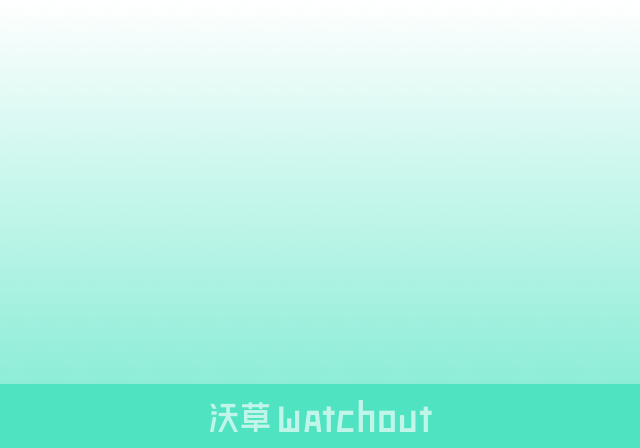
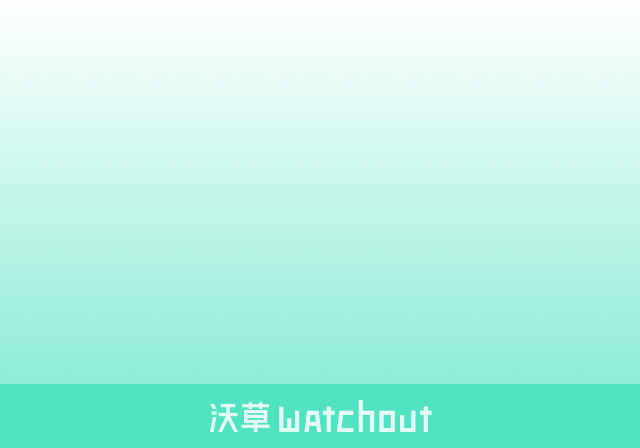
Update footer; use jpg for opening graphics

Changed region(s): [[0.3125, 0.875, 0.6875, 0.9688]]

diff --git a/css/style.css b/css/style.css
@@ -192,11 +192,11 @@ section#cover {
   background-color: rgba(0, 0, 0, 0.65);
   background-size: cover;
   background-position: center center;
-  background-image: url(../asset/opening+background-sq.png); }
+  background-image: url(../asset/opening+background-sq.jpg); }
   @media (min-width: 576px) {
     section#cover {
       padding-bottom: 50%;
-      background-image: url(../asset/opening+background-wide.png); } }
+      background-image: url(../asset/opening+background-wide.jpg); } }
 @media (min-width: 576px) {
   section#now {
     padding-top: 2rem; }
@@ -349,9 +349,9 @@ section#cover {
     opacity: 0.75; }
 
 footer {
-  margin-top: 6rem;
+  margin-top: 8rem;
   padding-bottom: 2rem;
-  background: #3d3d3d; }
+  background: #434343; }
   footer > .land, footer > .social, footer > .other {
     display: block;
     margin: 0 auto;
@@ -370,10 +370,10 @@ footer {
       height: 2rem;
       background-repeat: no-repeat; }
     footer > .land > .soil > .light {
-      background-color: #a04e3c;
+      background-color: #bd7260;
       background-image: url(../asset/footer/land/soil/light.png); }
     footer > .land > .soil > .dark {
-      background-color: #7f4533;
+      background-color: #8c4533;
       background-image: url(../asset/footer/land/soil/dark.png); }
     footer > .land > .patches {
       position: absolute;
@@ -392,15 +392,27 @@ footer {
           background-image: url(../asset/footer/grass/small.png); }
     footer > .land > .tree {
       position: absolute; }
-      footer > .land > .tree.tree-speech {
-        bottom: 5.5rem;
+      footer > .land > .tree.tree-deliberate {
+        bottom: 5.25rem;
         left: 10%;
         width: 11.25rem; }
       footer > .land > .tree.tree-discover {
-        bottom: 4.5rem;
+        bottom: 5rem;
         left: 10%;
-        transform: translateX(7.5rem);
+        transform: translateX(6rem);
         width: 8.5rem; }
+      footer > .land > .tree.tree-investigate {
+        display: none;
+        bottom: 5.5rem;
+        right: 10%;
+        width: 11.875rem; }
+        @media (min-width: 576px) {
+          footer > .land > .tree.tree-investigate {
+            display: block; } }
+      footer > .land > .tree.tree-sprout {
+        bottom: 4rem;
+        right: 8%;
+        width: 1.25rem; }
     footer > .land > .farmer {
       position: absolute; }
       footer > .land > .farmer.farmer-tangerine {
@@ -414,7 +426,7 @@ footer {
       footer > .land > .farmer.farmer-brown {
         bottom: 4.5rem;
         left: 10%;
-        transform: translateX(16rem);
+        transform: translateX(14rem);
         width: 2rem; }
   footer > .social {
     padding: 6rem 0;

diff --git a/src/style/style.scss b/src/style/style.scss
@@ -209,11 +209,11 @@ section {
     height: 0;
     padding-bottom: 88.8888889%;
     @include placeholder;
-    background-image: url(../asset/opening+background-sq.png);
+    background-image: url(../asset/opening+background-sq.jpg);
 
     @include bp-sm-up {
       padding-bottom: 50%;
-      background-image: url(../asset/opening+background-wide.png);
+      background-image: url(../asset/opening+background-wide.jpg);
     }
   }
   &#now {
@@ -413,9 +413,9 @@ section {
 }
 
 footer {
-  margin-top: 6rem;
+  margin-top: 8rem;
   padding-bottom: 2rem;
-  background: #3d3d3d;//linear-gradient(to bottom, rgba($color-ask, 0), rgba($color-ask, 100));
+  background: #434343;
 
   > .land, > .social, > .other {
     display: block;
@@ -440,11 +440,11 @@ footer {
         background-repeat: no-repeat;
       }
       > .light {
-        background-color: #a04e3c;
+        background-color: #bd7260;
         background-image: url(../asset/footer/land/soil/light.png);
       }
       > .dark {
-        background-color: #7f4533;
+        background-color: #8c4533;
         background-image: url(../asset/footer/land/soil/dark.png);
       }
     }
@@ -472,16 +472,31 @@ footer {
     > .tree {
       position: absolute;
 
-      &.tree-speech {
-        bottom: 5.5rem;
+      &.tree-deliberate {
+        bottom: 5.25rem;
         left: 10%;
         width: 11.25rem;
       }
       &.tree-discover {
-        bottom: 4.5rem;
+        bottom: 5rem;
         left: 10%;
-        transform: translateX(7.5rem);
+        transform: translateX(6rem);
         width: 8.5rem;
+      }
+      &.tree-investigate {
+        display: none;
+        bottom: 5.5rem;
+        right: 10%;
+        width: 11.875rem;
+
+        @include bp-sm-up {
+          display: block;
+        }
+      }
+      &.tree-sprout {
+        bottom: 4rem;
+        right: 8%;
+        width: 1.25rem;
       }
     }
     > .farmer {
@@ -500,7 +515,7 @@ footer {
       &.farmer-brown {
         bottom: 4.5rem;
         left: 10%;
-        transform: translateX(16rem);
+        transform: translateX(14rem);
         width: 2rem;
       }
     }

diff --git a/src/footer.js b/src/footer.js
@@ -100,11 +100,13 @@ var footer = new Vue({
       <div class="patches d-flex align-items-end justify-content-between">
         <div v-for="i in patchCount()" class="patch" :class="patchSize()" :style="patchStyles(i)"></div>
       </div>
-      <img src="asset/footer/tree/speech.png" class="tree tree-speech" />
+      <img src="asset/footer/tree/deliberate.png" class="tree tree-deliberate" />
       <img src="asset/footer/tree/discover.png" class="tree tree-discover" />
+      <img src="asset/footer/tree/investigate.png" class="tree tree-investigate" />
       <img src="asset/footer/farmer/tangerine.png" class="farmer farmer-tangerine" />
       <img src="asset/footer/farmer/green.png" class="farmer farmer-green" />
       <img src="asset/footer/farmer/brown.png" class="farmer farmer-brown" />
+      <img src="asset/footer/tree/sprout.png" class="tree tree-sprout" />
     </div>
     <div class="social">
       <div v-for="group in cptSocialGroups" class="group d-flex flex-row justify-content-around" :type="group.type">
